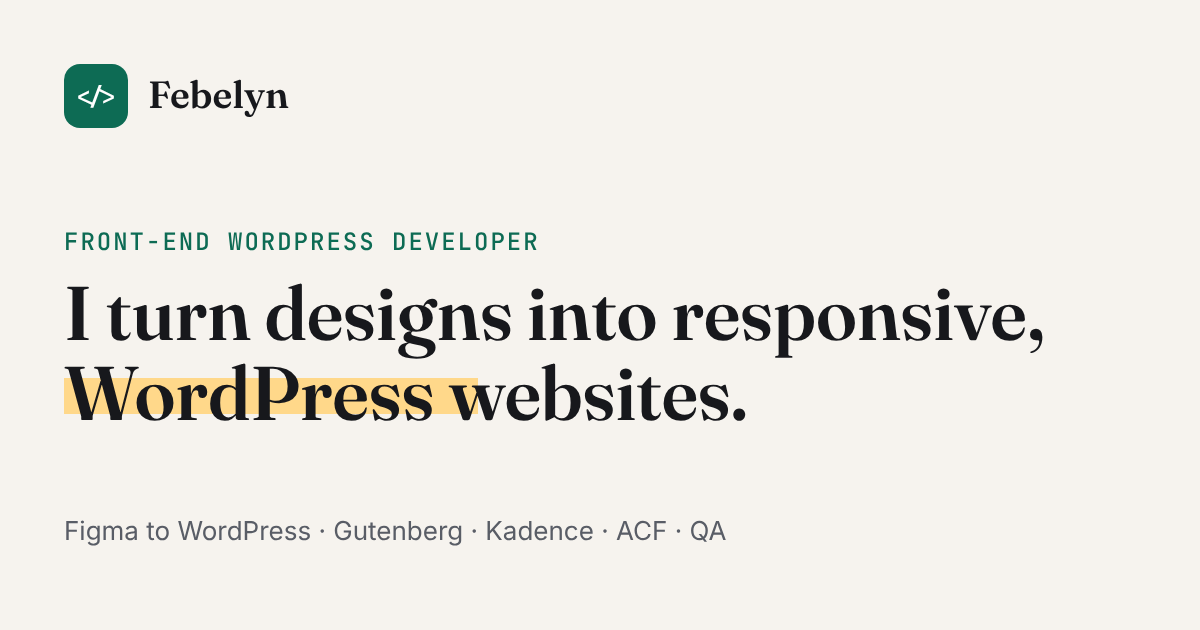
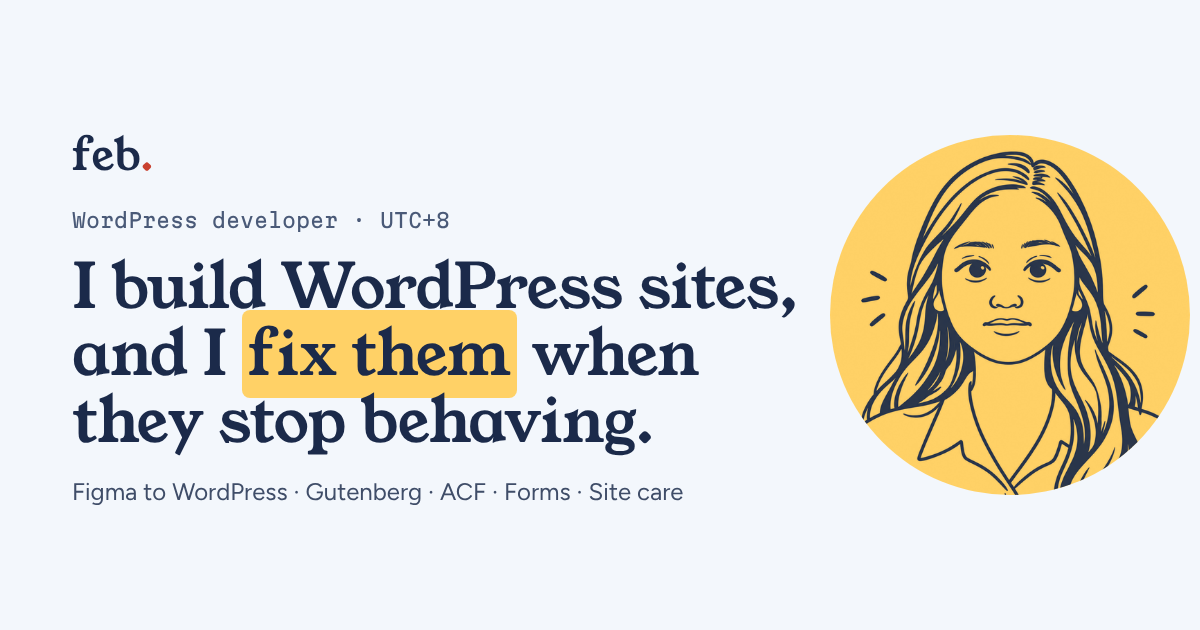
Help search engines and AI assistants understand the site
- Sharper title, description and social tags, plus a new preview image
  in the current design (the old one still said "front-end").
- Structured data describing the site, Febelyn's skills, and the FAQ.
- llms.txt: a plain-text summary AI assistants can read and quote.
- Sitemap with dates and the demo page; robots.txt welcomes all crawlers.
- The demo page gets a descriptive title, description and canonical URL.

Claude-Session: https://claude.ai/code/session_018H6xSW6N79drfRioiATr4v

diff --git a/index.html b/index.html
@@ -4,24 +4,32 @@
   <meta charset="utf-8">
   <meta name="viewport" content="width=device-width, initial-scale=1">
 
-  <title>Febelyn | WordPress Developer: builds, fixes and site care</title>
-  <meta name="description" content="WordPress developer with 10+ years of experience. I turn designs into sites clients can edit, fix what stops working, and keep live sites healthy.">
+  <title>Febelyn | WordPress Developer: Figma to WordPress, Fixes &amp; Site Care</title>
+  <meta name="description" content="Febelyn is a WordPress developer with 10+ years of experience. I turn Figma designs into sites clients can edit, fix forms and plugin conflicts, and look after live sites. Open to remote roles.">
   <meta name="author" content="Febelyn">
+  <meta name="robots" content="index, follow, max-image-preview:large">
 
+  <meta property="og:site_name" content="febwebdev">
+  <meta property="og:locale" content="en_US">
   <meta property="og:title" content="Febelyn | WordPress Developer">
   <meta property="og:description" content="I build WordPress sites, and I fix them when they stop behaving. Figma to WordPress, Gutenberg, ACF, forms, WooCommerce and ongoing site care.">
-  <meta property="og:type" content="website">
+  <meta property="og:type" content="profile">
+  <meta property="profile:first_name" content="Febelyn">
   <meta property="og:url" content="https://febwebdev.github.io/">
   <meta property="og:image" content="https://febwebdev.github.io/og-image.png">
   <meta property="og:image:width" content="1200">
   <meta property="og:image:height" content="630">
-  <meta property="og:image:alt" content="Febelyn, WordPress Developer">
+  <meta property="og:image:alt" content="Febelyn, WordPress developer: I build WordPress sites, and I fix them when they stop behaving.">
   <link rel="canonical" href="https://febwebdev.github.io/">
 
   <meta name="twitter:card" content="summary_large_image">
+  <meta name="twitter:title" content="Febelyn | WordPress Developer">
+  <meta name="twitter:description" content="I build WordPress sites, and I fix them when they stop behaving. Figma to WordPress, Gutenberg, ACF, forms and site care.">
+  <meta name="twitter:image" content="https://febwebdev.github.io/og-image.png">
   <meta name="theme-color" content="#f3f7fc">
 
   <link rel="icon" href="favicon.svg" type="image/svg+xml">
+  <link rel="alternate" type="text/plain" href="llms.txt" title="Plain-text summary for AI assistants">
   <link rel="preconnect" href="https://fonts.googleapis.com">
   <link rel="preconnect" href="https://fonts.gstatic.com" crossorigin>
   <link rel="stylesheet" href="https://fonts.googleapis.com/css2?family=Young+Serif&family=Figtree:wght@400;500;600;700&family=Martian+Mono:wght@400;500&display=swap">
@@ -29,14 +37,171 @@
   <script defer src="js/main.js?v=2"></script>
 
   <script type="application/ld+json">
-  {
-    "@context": "https://schema.org",
-    "@type": "Person",
-    "name": "Febelyn",
-    "jobTitle": "WordPress Developer",
-    "url": "https://febwebdev.github.io/",
-    "knowsAbout": ["WordPress", "Gutenberg", "Kadence", "Advanced Custom Fields", "Custom post types", "Gravity Forms", "WooCommerce", "Figma to WordPress", "HTML", "CSS", "JavaScript", "Cross-browser QA", "Website maintenance"]
-  }
+{
+  "@context": "https://schema.org",
+  "@graph": [
+    {
+      "@type": "WebSite",
+      "@id": "https://febwebdev.github.io/#website",
+      "url": "https://febwebdev.github.io/",
+      "name": "febwebdev",
+      "description": "Portfolio of Febelyn, a WordPress developer who builds, fixes and maintains WordPress sites.",
+      "inLanguage": "en",
+      "publisher": {
+        "@id": "https://febwebdev.github.io/#person"
+      }
+    },
+    {
+      "@type": "ProfilePage",
+      "@id": "https://febwebdev.github.io/#profile",
+      "url": "https://febwebdev.github.io/",
+      "name": "Febelyn | WordPress Developer",
+      "isPartOf": {
+        "@id": "https://febwebdev.github.io/#website"
+      },
+      "mainEntity": {
+        "@id": "https://febwebdev.github.io/#person"
+      },
+      "dateModified": "2026-10-28"
+    },
+    {
+      "@type": "Person",
+      "@id": "https://febwebdev.github.io/#person",
+      "name": "Febelyn",
+      "alternateName": "febwebdev",
+      "url": "https://febwebdev.github.io/",
+      "image": "https://febwebdev.github.io/images/avatar.webp",
+      "jobTitle": "WordPress Developer",
+      "description": "WordPress developer with 10+ years of experience and 5+ years working remotely with agencies. Turns approved Figma designs into WordPress sites clients can edit, fixes what stops working, and keeps live sites healthy. Open to a long-term remote WordPress role.",
+      "knowsAbout": [
+        "WordPress",
+        "Figma to WordPress",
+        "Gutenberg",
+        "Kadence",
+        "Genesis",
+        "GeneratePress",
+        "Advanced Custom Fields (ACF)",
+        "Custom post types",
+        "Gravity Forms",
+        "WooCommerce",
+        "Elementor",
+        "Beaver Builder",
+        "Divi",
+        "Bricks",
+        "Responsive web design",
+        "HTML",
+        "CSS",
+        "JavaScript",
+        "Cross-browser testing",
+        "Website maintenance",
+        "WordPress troubleshooting"
+      ],
+      "knowsLanguage": "en",
+      "address": {
+        "@type": "PostalAddress",
+        "addressCountry": "PH"
+      }
+    },
+    {
+      "@type": "FAQPage",
+      "@id": "https://febwebdev.github.io/#faq",
+      "url": "https://febwebdev.github.io/#faq",
+      "isPartOf": {
+        "@id": "https://febwebdev.github.io/#website"
+      },
+      "mainEntity": [
+        {
+          "@type": "Question",
+          "name": "Do you only do the front end?",
+          "acceptedAnswer": {
+            "@type": "Answer",
+            "text": "Front-end is my strength, but I handle the whole WordPress side too: content structure with ACF and custom post types, forms and email delivery, WooCommerce, and keeping live sites running."
+          }
+        },
+        {
+          "@type": "Question",
+          "name": "Which time zone are you in?",
+          "acceptedAnswer": {
+            "@type": "Answer",
+            "text": "UTC+8. I've worked asynchronously with agencies in other time zones for over five years, using task comments, Slack and clear handoff notes."
+          }
+        },
+        {
+          "@type": "Question",
+          "name": "Can you work with our page builder?",
+          "acceptedAnswer": {
+            "@type": "Answer",
+            "text": "Most likely. I've worked in Elementor, Beaver Builder, Divi, Bricks, WPBakery, SiteOrigin and Avada, and I adapt to whatever a project already uses."
+          }
+        },
+        {
+          "@type": "Question",
+          "name": "When can you start?",
+          "acceptedAnswer": {
+            "@type": "Answer",
+            "text": "Right away. I usually reply within one business day."
+          }
+        },
+        {
+          "@type": "Question",
+          "name": "What kind of role are you looking for?",
+          "acceptedAnswer": {
+            "@type": "Answer",
+            "text": "A long-term, remote position on a team that builds or looks after WordPress sites. I'm also comfortable in plain HTML, CSS and JavaScript, and I take on select projects and ongoing site care."
+          }
+        },
+        {
+          "@type": "Question",
+          "name": "Do you work on existing sites, or only new builds?",
+          "acceptedAnswer": {
+            "@type": "Answer",
+            "text": "Both. A lot of my work is on live sites: layout fixes, plugin conflicts, form problems and content updates, alongside new builds from Figma."
+          }
+        },
+        {
+          "@type": "Question",
+          "name": "Will our clients be able to edit the site themselves?",
+          "acceptedAnswer": {
+            "@type": "Answer",
+            "text": "Yes, that's one of my main goals. I build with reusable blocks and patterns, and use ACF fields and custom post types so routine changes happen in WordPress, not in code."
+          }
+        },
+        {
+          "@type": "Question",
+          "name": "How do you make sure nothing breaks?",
+          "acceptedAnswer": {
+            "@type": "Answer",
+            "text": "I check every page at desktop, tablet and phone sizes, test in the main browsers (with BrowserStack or LambdaTest), and send test entries through every form before I call a job done. After a change, I look over the rest of the site too, so a small fix doesn't break something somewhere else."
+          }
+        },
+        {
+          "@type": "Question",
+          "name": "How do you keep the team updated?",
+          "acceptedAnswer": {
+            "@type": "Answer",
+            "text": "In writing, so nobody has to wait for a meeting: short updates in task comments, Slack, ClickUp or Asana, blockers flagged early, and notes the next person can follow."
+          }
+        },
+        {
+          "@type": "Question",
+          "name": "Do you use AI tools?",
+          "acceptedAnswer": {
+            "@type": "Answer",
+            "text": "I'm learning to bring them into my work. AI is changing how websites get built, and it can speed up the routine parts. My job is to make sure what it helps build is correct, works on every screen and in every browser, and is easy for clients to edit."
+          }
+        },
+        {
+          "@type": "Question",
+          "name": "Why are client names missing from your work?",
+          "acceptedAnswer": {
+            "@type": "Answer",
+            "text": "Most of my work was for agencies, so I leave client names out on purpose. I'm happy to walk you through any project in more detail."
+          }
+        }
+      ]
+    }
+  ]
+}
   </script>
 </head>
 

diff --git a/demos/ssc-energy-flow/index.html b/demos/ssc-energy-flow/index.html
@@ -4,7 +4,10 @@
 <head>
 <meta charset="utf-8">
 <meta name="viewport" content="width=device-width, initial-scale=1">
-<title>Demo for SSC Website Application</title>
+<title>Solar and battery energy flow demo | febwebdev</title>
+<meta name="description" content="An animated, keyboard-friendly explainer showing how solar panels, a home battery and EV charging work through the day and night. Built by Febelyn, WordPress developer.">
+<link rel="canonical" href="https://febwebdev.github.io/demos/ssc-energy-flow/">
+<link rel="icon" href="../../favicon.svg" type="image/svg+xml">
 
 <style>
 :root{--ink:#0f2b2e;--muted:#476467;--amber:#f2a516;--green:#16a36a;--day:#e4f2f5;--night:#0e2236}

diff --git a/README.md b/README.md
@@ -139,7 +139,6 @@ febwebdev.github.io/
 ├── .nojekyll
 └── assets/
     ├── favicon.svg
-    ├── og-image.svg
     ├── css/
     │   └── style.css
     └── js/
